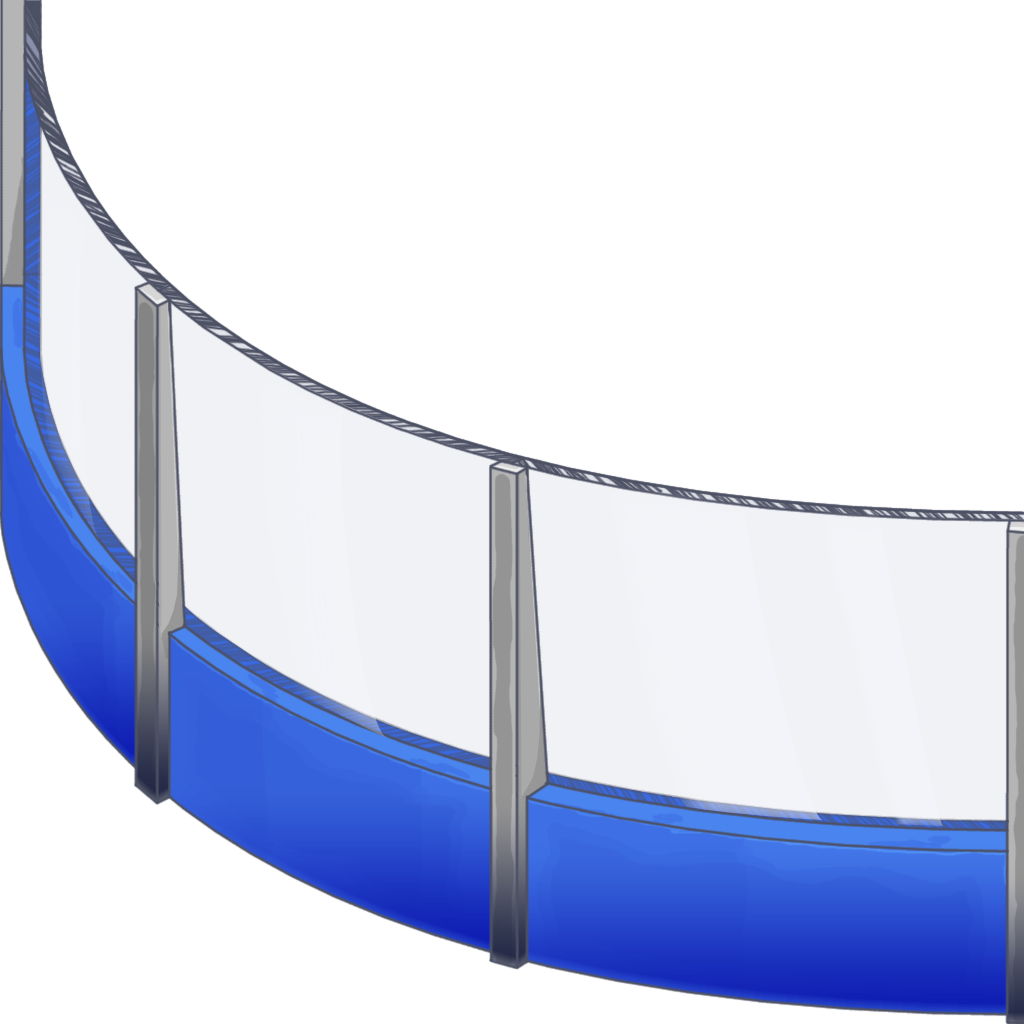
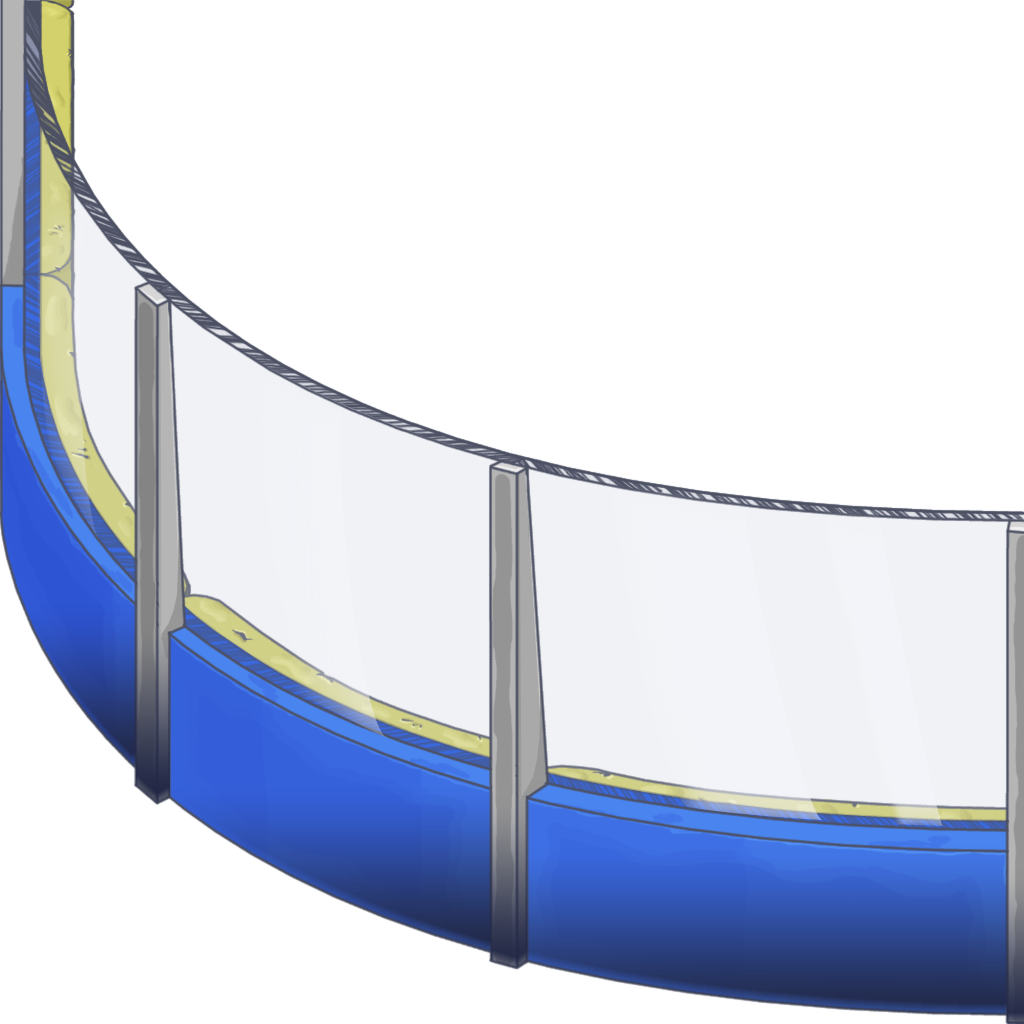
Added team specific rink images

diff --git a/game.js b/game.js
@@ -16724,7 +16724,7 @@ Rink = function(I) {
       return sprite.fill(frontBoardsCanvas, 0, 0, I.spriteSize * 12, I.spriteSize);
     });
   });
-  Sprite.loadSheet("norm_wall_w", 512, 512, 0.125, function(sprites) {
+  Sprite.loadSheet("" + I.team + "/wall_w", 512, 512, 0.125, function(sprites) {
     var sprite;
     sprite = sprites[0];
     frontBoardsCanvas.withTransform(Matrix.translation(I.wallLeft, I.wallTop + 96), function(canvas) {
